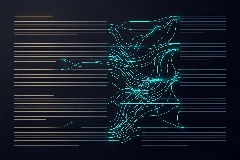
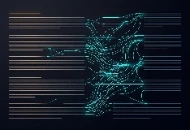
Refresh resized project images and invalidate cached URLs

diff --git a/index.html b/index.html
@@ -465,7 +465,7 @@
             <div class="hex-card__shape">
               <div class="hex-card__inner">
                 <div class="hex-card__img">
-                  <img src="img/formazione-ai-rete-neurale-deep-learning.webp" alt="Libro digitale luminoso con rete neurale — simbolo della formazione AI">
+                  <img src="img/formazione-ai-rete-neurale-deep-learning.webp?v=0abae173" alt="Libro digitale luminoso con rete neurale — simbolo della formazione AI">
                 </div>
                 <div class="hex-card__title">Progetti di Formazione</div>
               </div>
@@ -487,7 +487,7 @@
             <div class="hex-card__shape">
               <div class="hex-card__inner">
                 <div class="hex-card__img">
-                  <img src="img/articoli-ai-approfondimenti-guide.webp" alt="Visualizzazione astratta di dati e connessioni AI per articoli tecnici">
+                  <img src="img/articoli-ai-approfondimenti-guide.webp?v=4ba6e948" alt="Visualizzazione astratta di dati e connessioni AI per articoli tecnici">
                 </div>
                 <div class="hex-card__title">Articoli</div>
               </div>
